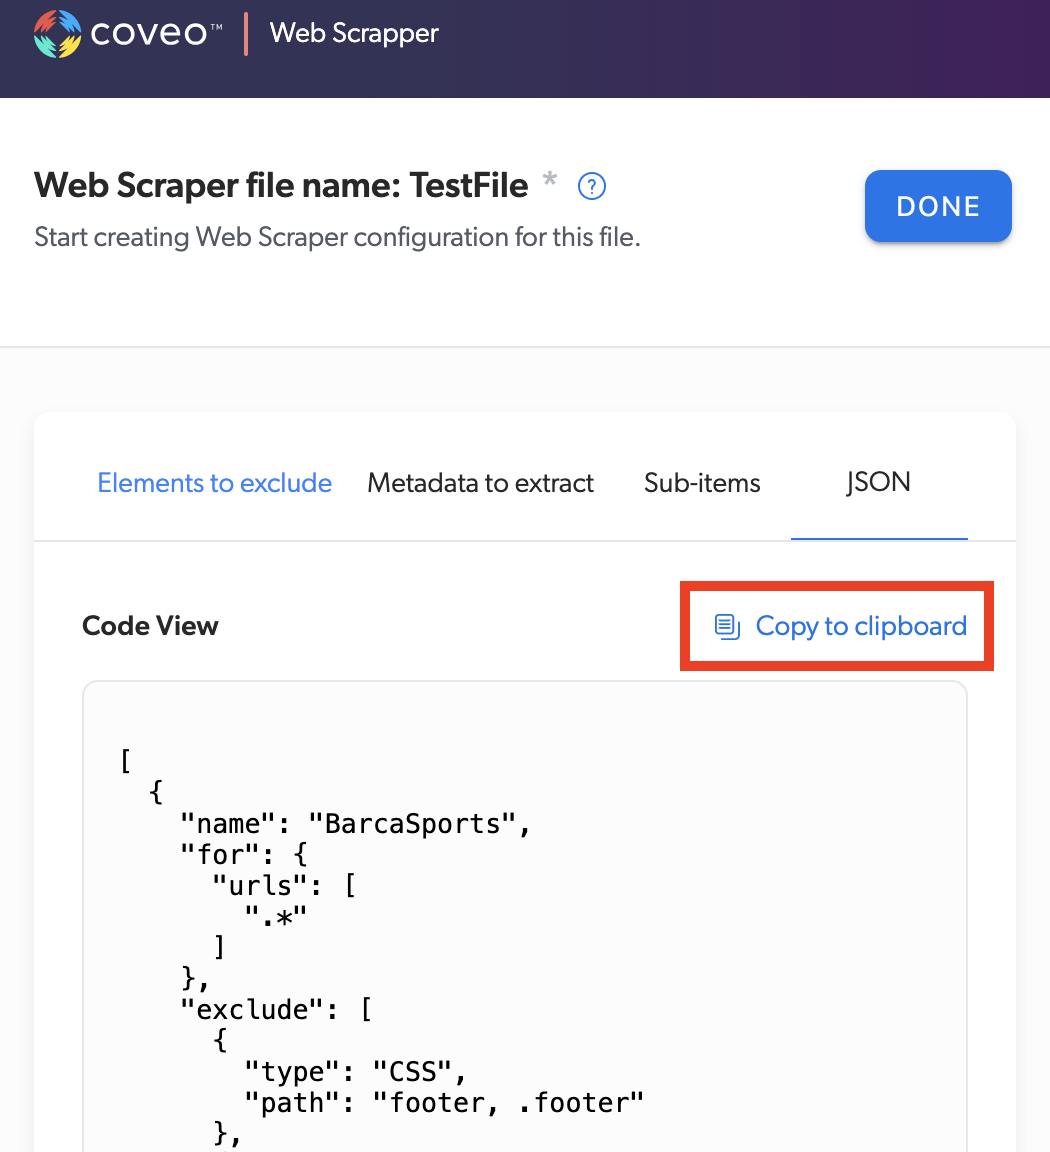
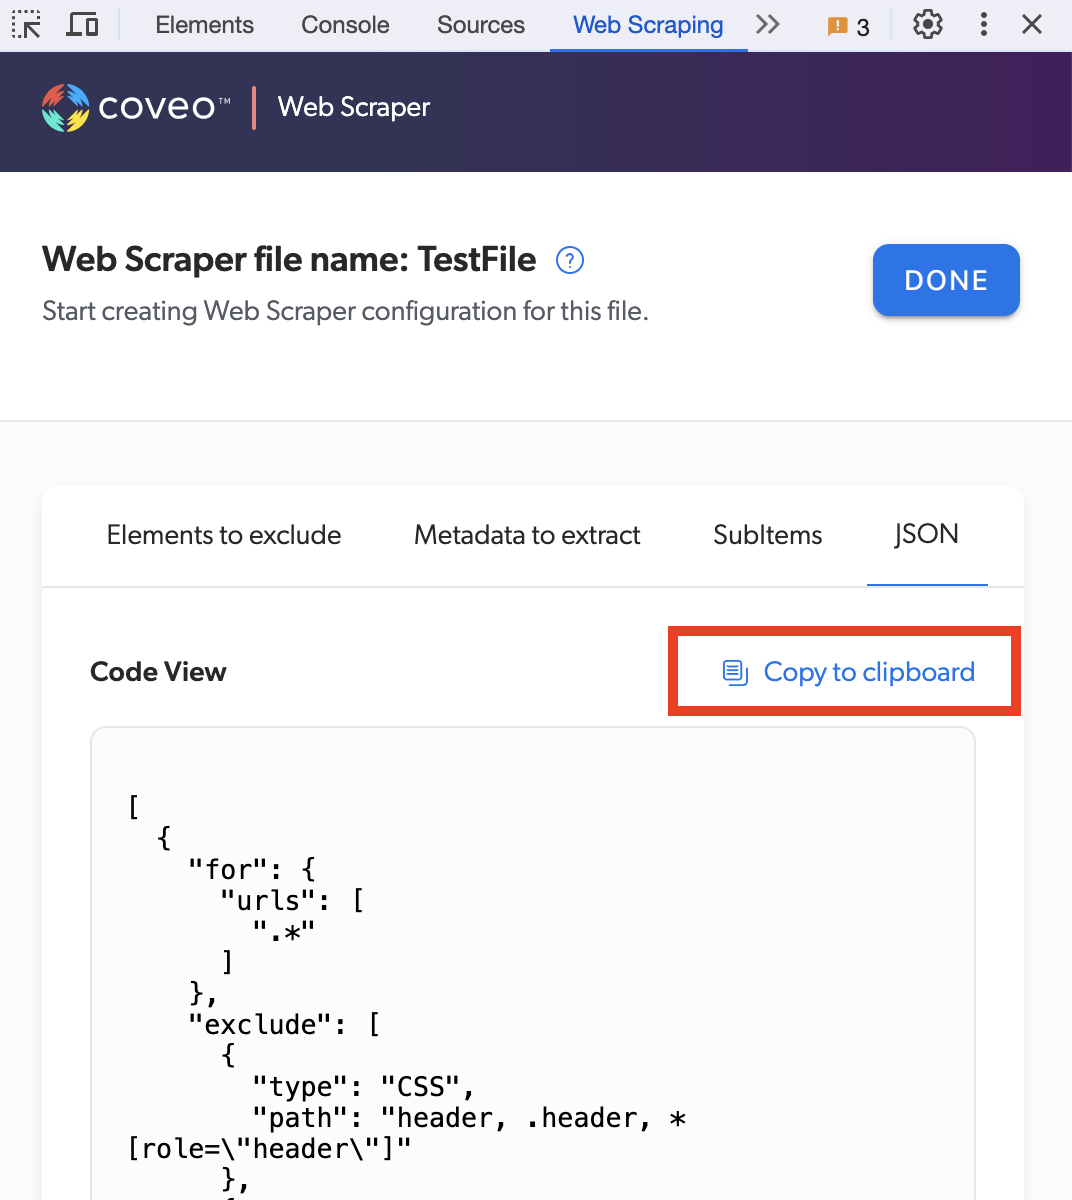
Updated the screenshots and gif without the typo

diff --git a/docs/howto.md b/docs/howto.md
@@ -12,7 +12,7 @@ _To install this extension in your Chrome browser, follow these [installation st
 
 1. Find a Web Scraping tab (like shown on the screenshot below)
 
-   <img src="./panel.png" alt="Web Scraper panel" width="400" height="400">
+   <img src="./panel.png" alt="Web Scraper panel" width="350" height="400">
 
 1. Click “Create New File” to start a new Web Scraping configuration for your site and source
 1. To pick a specific part of the desired web page, use Select Element (as on screenshot or `Ctrl + Shift + C`)

diff --git a/chrome_extension/README.md b/chrome_extension/README.md
@@ -49,7 +49,7 @@ The UI in the Developer tools is done using Stencil. You need to build the Stenc
       The extracted value appears in the **Metadata name** and **Value** table.
 
       Demo:
-      ![demo](../misc/screenshots/sports.gif)
+      <img src="../misc/screenshots/sports.gif" alt="demo" width="600" height="400">
 
    1. Click **Save** once you are happy with your web scraping configuration.
 
